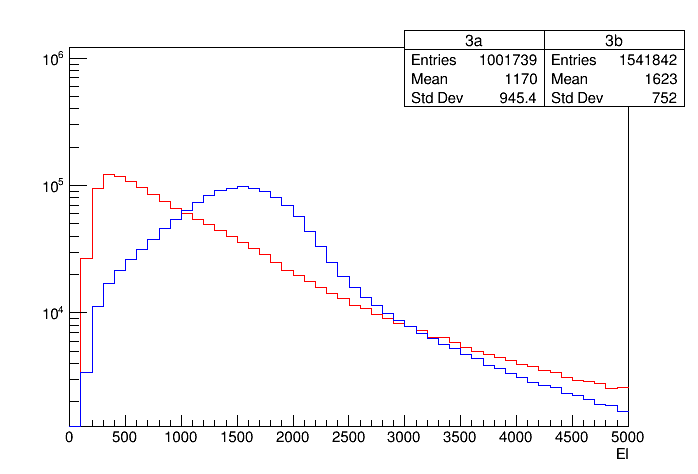
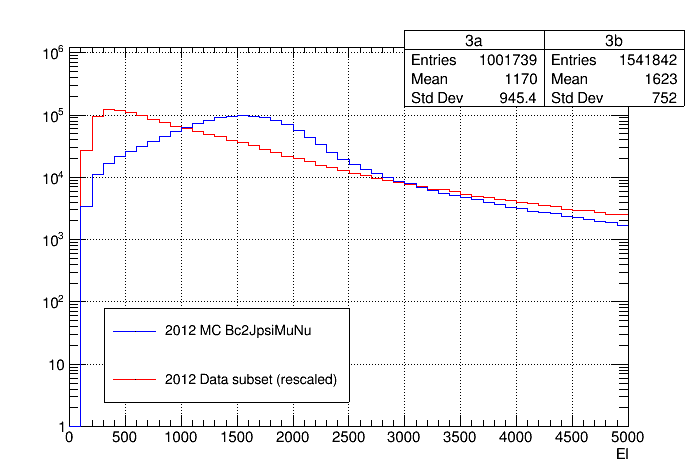
Update projection comparisons

diff --git a/tupleProduction/project_compare_histograms.C b/tupleProduction/project_compare_histograms.C
@@ -42,7 +42,7 @@ for (Int_t i=0;i<myTree1->GetEntries();i++) {
         else {cout<<"wrong El value"<<endl;}
         }
     hist_z1->Fill(Z);
-    //if (i>10000) break;//
+    if (i>10000) break;//
     }
 
 TH1* hist_z2 = new TH1I("hist_z2","Z(q2,El)", 8, 0, 8);
@@ -68,12 +68,11 @@ for (Int_t i=0;i<myTree2->GetEntries();i++) {
         else {cout<<"wrong El value"<<endl;}
         }
     hist_z2->Fill(Z);
-    //if (i>10000) break;//
+    if (i>10000) break;//
     }
 
 Double_t scale_z = hist_z2->Integral()/hist_z1->Integral();
 hist_z1->Scale(scale_z,"nosw2");
-//hist_z2->Scale(scale_z2,"nosw2");
 auto max_z = std::max(hist_z1->GetMaximum(),hist_z2->GetMaximum());
 hist_z1->SetMaximum(max_z*1.1);
 hist_z1->SetTitle("");
@@ -81,6 +80,7 @@ hist_z1->GetXaxis()->SetTitle("Z (q^2, E*_mu)");
 hist_z1->GetYaxis()->SetTitle("");
 hist_z1->SetLineColor(kRed);
 hist_z2->SetLineColor(kBlue);
+hist_z1->SetMinimum(0);
 hist_z1->Draw();
 gPad->Update();
 TPaveStats *st_z1 = (TPaveStats*)hist_z1->FindObject("stats");
@@ -92,7 +92,11 @@ c_z->SaveAs(filepath+"Z_q2_El"+".png");
 
 // Simply draw in canvas
 TCanvas *c1 = new TCanvas("c1","c1");
-c1->SetLogy();// draw with log scale Y
+c1->SetLogy();
+c1->SetGridx();
+c1->SetGridy();
+c1->SetTickx(1);
+c1->SetTicky(1);
 TString title1 = "MissingMass2";
 TString temp1a = "1a";
 TString temp1b = "1b";
@@ -111,6 +115,7 @@ hist1a->SetMaximum(max1*10);
 hist1a->SetTitle("");
 hist1a->GetXaxis()->SetTitle(title1);
 hist1a->GetYaxis()->SetTitle("");
+hist1a->SetMinimum(1);
 hist1a->Draw();
 gPad->Update();
 TPaveStats *st_1a = (TPaveStats*)hist1a->FindObject("stats");
@@ -118,10 +123,45 @@ st_1a->SetX1NDC(0.58);
 st_1a->SetX2NDC(0.78);
 hist1b->Draw("SAMES");
 
+// Add Legend
+// c1->BuildLegend();
+TLegend *leg1 = new TLegend(0.15,0.15,0.50,0.35,NULL,"brNDC");
+leg1->SetBorderSize(1);
+leg1->SetLineColor(1);
+leg1->SetLineStyle(1);
+leg1->SetLineWidth(1);
+leg1->SetFillColor(0);
+leg1->SetFillStyle(1001);
+
+TLegendEntry *entry1=leg1->AddEntry("1b","2012 MC Bc2JpsiMuNu","lpf");
+entry1->SetFillStyle(1001);
+entry1->SetLineStyle(1);
+entry1->SetLineWidth(1);
+entry1->SetMarkerColor(1);
+entry1->SetMarkerStyle(1);
+entry1->SetMarkerSize(1);
+entry1->SetTextFont(42);
+
+entry1=leg1->AddEntry("1a","2012 Data subset (rescaled)","lpflpf");
+entry1->SetFillStyle(1001);
+entry1->SetLineStyle(1);
+entry1->SetLineWidth(1);
+entry1->SetMarkerColor(1);
+entry1->SetMarkerStyle(1);
+entry1->SetMarkerSize(1);
+entry1->SetTextFont(42);
+leg1->Draw();
+
+c1->Modified();
 c1->SaveAs(filepath+title1+".png");
 
 // Draw in canvas
 TCanvas *c2 = new TCanvas("c2","c2");
+c2->SetLogy();
+c2->SetGridx();
+c2->SetGridy();
+c2->SetTickx(1);
+c2->SetTicky(1);
 c2->SetLogy();// draw with log scale Y
 TString title2 = "q2";
 TString temp2a = "2a";
@@ -141,16 +181,52 @@ hist2a->SetMaximum(max2*10);
 hist2a->SetTitle("");
 hist2a->GetXaxis()->SetTitle(title2);
 hist2a->GetYaxis()->SetTitle("");
+hist2a->SetMinimum(1);
 hist2a->Draw();
 gPad->Update();
 TPaveStats *st_2a = (TPaveStats*)hist2a->FindObject("stats");
 st_2a->SetX1NDC(0.58);
 st_2a->SetX2NDC(0.78);
 hist2b->Draw("SAMES");
+
+// Add Legend
+TLegend *leg2 = new TLegend(0.15,0.15,0.50,0.35,NULL,"brNDC");
+leg2->SetBorderSize(1);
+leg2->SetLineColor(1);
+leg2->SetLineStyle(1);
+leg2->SetLineWidth(1);
+leg2->SetFillColor(0);
+leg2->SetFillStyle(1001);
+
+TLegendEntry *entry2=leg2->AddEntry("2b","2012 MC Bc2JpsiMuNu","lpf");
+entry2->SetFillStyle(1001);
+entry2->SetLineStyle(1);
+entry2->SetLineWidth(1);
+entry2->SetMarkerColor(1);
+entry2->SetMarkerStyle(1);
+entry2->SetMarkerSize(1);
+entry2->SetTextFont(42);
+
+entry2=leg2->AddEntry("2a","2012 Data subset (rescaled)","lpflpf");
+entry2->SetFillStyle(1001);
+entry2->SetLineStyle(1);
+entry2->SetLineWidth(1);
+entry2->SetMarkerColor(1);
+entry2->SetMarkerStyle(1);
+entry2->SetMarkerSize(1);
+entry2->SetTextFont(42);
+leg2->Draw();
+
+c2->Modified();
 c2->SaveAs(filepath+title2+".png");
 
 // Draw in canvas
 TCanvas *c3 = new TCanvas("c3","c3");
+c3->SetLogy();
+c3->SetGridx();
+c3->SetGridy();
+c3->SetTickx(1);
+c3->SetTicky(1);
 c3->SetLogy();// draw with log scale Y
 TString title3 = "El";
 TString temp3a = "3a";
@@ -170,16 +246,52 @@ hist3a->SetMaximum(max3*10);
 hist3a->SetTitle("");
 hist3a->GetXaxis()->SetTitle(title3);
 hist3a->GetYaxis()->SetTitle("");
+hist3a->SetMinimum(1);
 hist3a->Draw();
 gPad->Update();
 TPaveStats *st_3a = (TPaveStats*)hist3a->FindObject("stats");
 st_3a->SetX1NDC(0.58);
 st_3a->SetX2NDC(0.78);
 hist3b->Draw("SAMES");
+
+// Add Legend
+TLegend *leg3 = new TLegend(0.15,0.15,0.50,0.35,NULL,"brNDC");
+leg3->SetBorderSize(1);
+leg3->SetLineColor(1);
+leg3->SetLineStyle(1);
+leg3->SetLineWidth(1);
+leg3->SetFillColor(0);
+leg3->SetFillStyle(1001);
+
+TLegendEntry *entry3=leg3->AddEntry("3b","2012 MC Bc2JpsiMuNu","lpf");
+entry3->SetFillStyle(1001);
+entry3->SetLineStyle(1);
+entry3->SetLineWidth(1);
+entry3->SetMarkerColor(1);
+entry3->SetMarkerStyle(1);
+entry3->SetMarkerSize(1);
+entry3->SetTextFont(42);
+
+entry3=leg3->AddEntry("3a","2012 Data subset (rescaled)","lpflpf");
+entry3->SetFillStyle(1001);
+entry3->SetLineStyle(1);
+entry3->SetLineWidth(1);
+entry3->SetMarkerColor(1);
+entry3->SetMarkerStyle(1);
+entry3->SetMarkerSize(1);
+entry3->SetTextFont(42);
+leg3->Draw();
+
+c3->Modified();
 c3->SaveAs(filepath+title3+".png");
 
 // Draw in canvas
 TCanvas *c4 = new TCanvas("c4","c4");
+c4->SetLogy();
+c4->SetGridx();
+c4->SetGridy();
+c4->SetTickx(1);
+c4->SetTicky(1);
 c4->SetLogy();// draw with log scale Y
 TString title4 = "TAU";
 TString temp4a = "4a";
@@ -199,12 +311,43 @@ hist4a->SetMaximum(max4*10);
 hist4a->SetTitle("");
 hist4a->GetXaxis()->SetTitle(title4);
 hist4a->GetYaxis()->SetTitle("");
+hist4a->SetMinimum(1);
 hist4a->Draw();
 gPad->Update();
 TPaveStats *st_4a = (TPaveStats*)hist4a->FindObject("stats");
 st_4a->SetX1NDC(0.58);
 st_4a->SetX2NDC(0.78);
 hist4b->Draw("SAMES");
+
+// Add Legend
+TLegend *leg4 = new TLegend(0.15,0.15,0.50,0.35,NULL,"brNDC");
+leg4->SetBorderSize(1);
+leg4->SetLineColor(1);
+leg4->SetLineStyle(1);
+leg4->SetLineWidth(1);
+leg4->SetFillColor(0);
+leg4->SetFillStyle(1001);
+
+TLegendEntry *entry4=leg4->AddEntry("4b","2012 MC Bc2JpsiMuNu","lpf");
+entry4->SetFillStyle(1001);
+entry4->SetLineStyle(1);
+entry4->SetLineWidth(1);
+entry4->SetMarkerColor(1);
+entry4->SetMarkerStyle(1);
+entry4->SetMarkerSize(1);
+entry4->SetTextFont(42);
+
+entry4=leg4->AddEntry("4a","2012 Data subset (rescaled)","lpflpf");
+entry4->SetFillStyle(1001);
+entry4->SetLineStyle(1);
+entry4->SetLineWidth(1);
+entry4->SetMarkerColor(1);
+entry4->SetMarkerStyle(1);
+entry4->SetMarkerSize(1);
+entry4->SetTextFont(42);
+leg4->Draw();
+
+c4->Modified();
 c4->SaveAs(filepath+title4+".png");
 
 }
